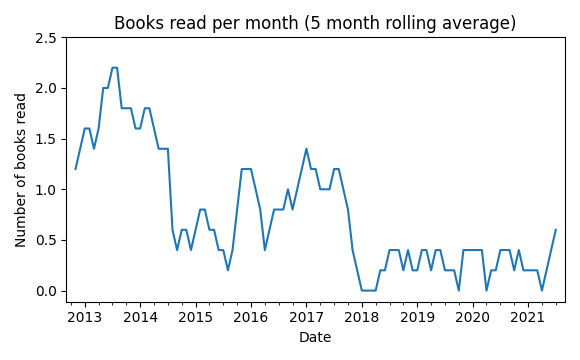
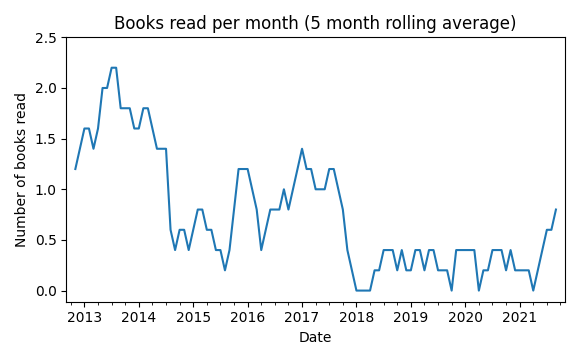
3bp

diff --git a/README.md b/README.md
@@ -6,13 +6,16 @@ The most significant events impacting the number of books I read are
 * The birth of my daughers in 2018/01 and 2019/08
 
 ### Statistics
-Total number of books read: 83  
-Books per month: 0.76 (2012/9 to 2021/9)
+Total number of books read: 84  
+Books per month: 0.76 (2012/9 to 2021/11)
 
 ![Books recorded by year](book_recorded.png)
 ![Books read per month](book_read.png)
 
 ### List of books
+*The Three-Body Problem*, Liu Cixin  
+Finished: 2021.11.22
+
 *Eleventh hour CISSP: Study guide*, Eric Conrad, Seth Misenar, Joshua Feldman  
 Finished: 2021.09.26
 
